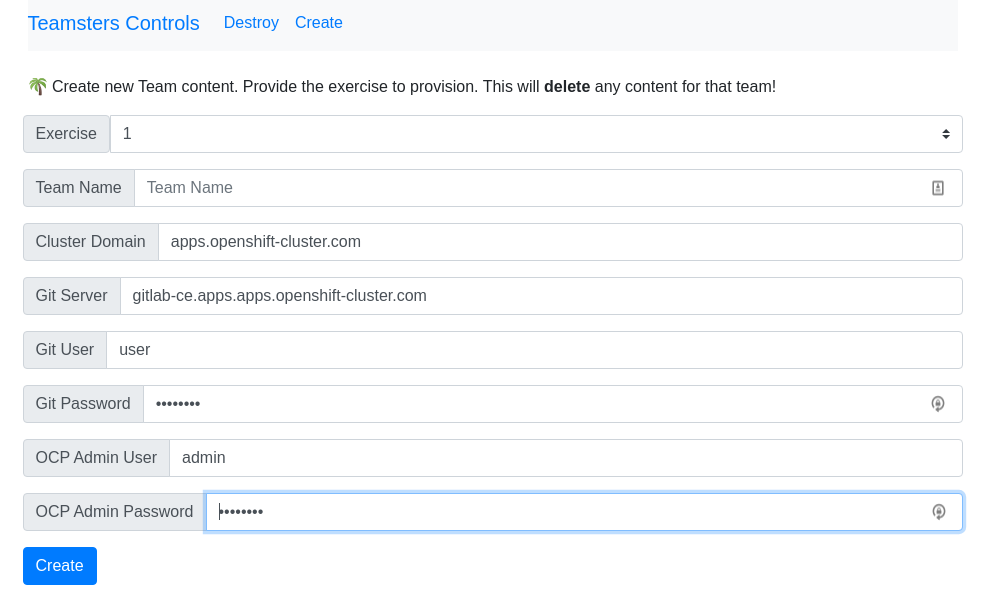
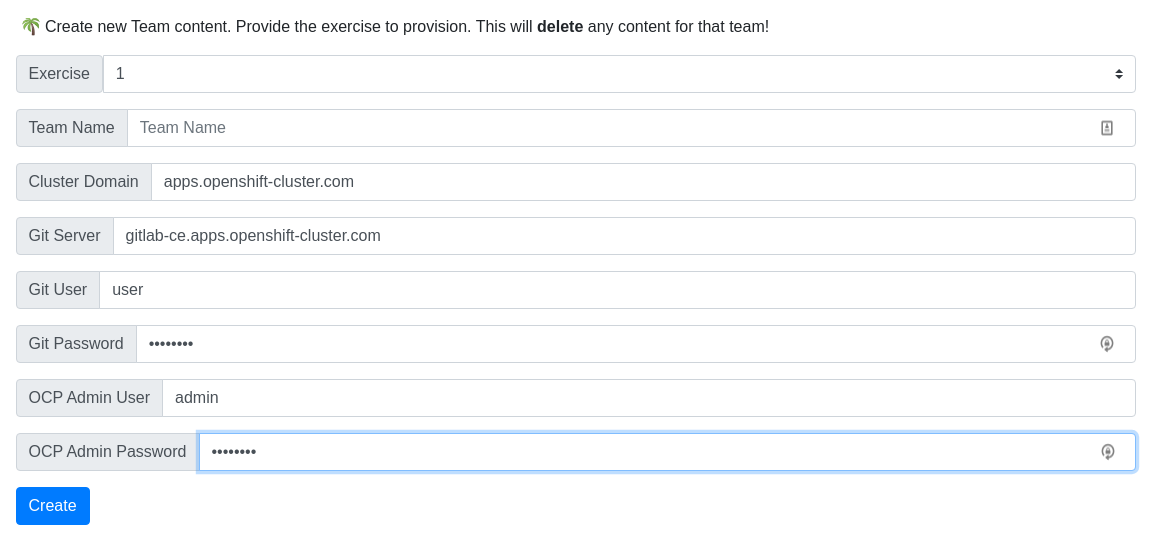
🦂 fixup spelling sp;) 🦂

Changed region(s): [[0.0, 0.1848, 1.0, 0.9855], [0.0, 0.0924, 0.7911, 0.154], [0.0, 0.0308, 0.6694, 0.0616]]

diff --git a/src/main/java/org/acme/TeamstersResource.java b/src/main/java/org/acme/TeamstersResource.java
@@ -34,7 +34,7 @@ public class TeamstersResource {
     @ConfigProperty(name = "CLUSTER_DOMAIN", defaultValue = "apps.openshift-cluster.com")
     String clusterDomain;
 
-    @ConfigProperty(name = "GIT_SERVER", defaultValue = "gitlab-ce.apps.apps.openshift-cluster.com")
+    @ConfigProperty(name = "GIT_SERVER", defaultValue = "gitlab-ce.apps.openshift-cluster.com")
     String gitServer;
 
     @ConfigProperty(name = "GITLAB_USER", defaultValue = "user")
